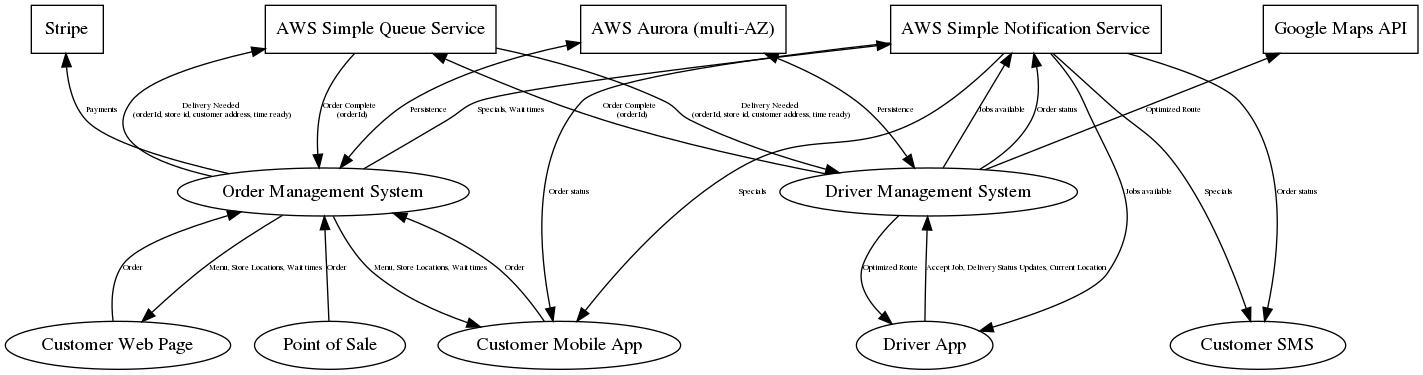
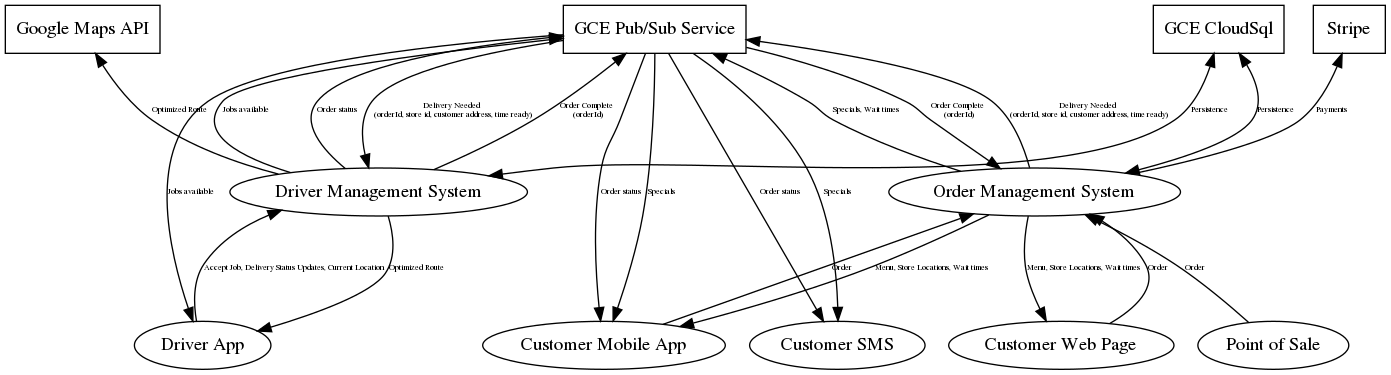
Updated graph

diff --git a/docs/Details/Order Management System.md b/docs/Details/Order Management System.md
@@ -3,21 +3,17 @@
 * Spring Security
 * JAX-RS
 * Docker
+* Stripe
 
 ## External services
 
-* AWS Simple Notification Service
-  * Driver job notifications
-  * Customer order updates
-* AWS Simple Queue Service
-  * Messaging to Customer Management System
-* AWS RDS with Aurora
-  * Data persistence
-* AWS Elastic Load Balancer
-* AWS Elastic Container Service
+* Google Container Engine (GKE)
+* Google Pub/Sub
+* Google Cloud SQL (Postgres)
 
-## Possible alternatives
-* AWS Incognito and API Gateway for user authentication and authorization
 
 ## Rationale
-Using an AWS heavy stack will reduce complexity, and enable easier scalability
+Using Google over AWS allows us to use managed kubernetes (google container engine) which is a far better offering than ECS. Running Kubernetes on AWS is quite intesnive, and for small deployments much costlier due to having to run your own managers.
+In addition, We can always deploy Kubernetes on another provider if we need to move away from Google Cloud Engine, wehreas that is not possible with ECS.
+Google Pub/Sub is equivalent to SQS for our purposes. Google Cloud SQL offers both Postgres and MySql, which allows us to switch to another vendor relatively easily. I've chosen Postgres because I think it has a more copmlete feature set, is less quirky. 
+In addition using Google allows us to use Cloud Spanner if we ever hit massive loads.

diff --git a/docs/Details/Web App.md b/docs/Details/Web App.md
@@ -3,13 +3,14 @@
   * Customer facing web site
 
 ## External Services
-* AWS S3
-  * Web site hosting
-* AWS Cloudfront
-  * CDN
-* AWS Route 53
-  * DNS management
+* Google Cloud Firebase
 
 ## Alternatives
-* Nginx and Docker
+* Nginx on GKE
+* Google Cloud Storage
 * Cloudflare 
+
+## Rationale
+The customer facing webapp will be written in React. The primary reason is React has high developer mind share and industry buy in. Thus finding React developers is not difficult, nor is there as high of a worry of React being abandoned. In addition, using React will allow developers to more easily transition to the mobile team (React Native) if neccesary. There is also the possibility of code reuse between the web and mobile applications.
+
+Using Firebase allows us to easily manage our static resources, and not worry about scalability. I would avoid using firebase specific functionality, limiting it to static file hosting, and certificate management. It will be relatively simple to transition to another if we just utilize it for static hosting.

diff --git a/src/devops/kubernetes/aws/README.md b/src/devops/kubernetes/aws/README.md
@@ -1,0 +1,21 @@
+[Please view the full Kops tutorial first](https://github.com/kubernetes/kops/blob/master/docs/aws.md)
+
+Dependencies:
+* Kops
+* Kubectl
+* awc-cli
+
+1. Prepare the AWS Kops Iam user.
+    * `. init-iam-kops.sh`
+1. Prepare Route 53.
+    * `. init-route-53.sh ${root-domain} ${sub-domain}`
+    * ie: `./init-route-53.sh pizzatent.co.nz kubernetes.pizzatent.co.nz`
+1. Prepare S3 state store.
+    * `. init-s3-state-store.sh ${bucket}`
+1. Create cluster 
+    * Initialize cluster
+        * `kops create cluster --zones ${availability-zones} ${sub-domain}`
+    * Update autoscaling setup
+        * `kops edit ig --name ${sub-domain} nodes`
+    * Deploy cluster
+        * `kops update cluster ${sub-domain} --yes`

diff --git a/docs/Details/Delivery Management System.md b/docs/Details/Delivery Management System.md
@@ -1,0 +1,14 @@
+## Stack 
+* Spring Boot
+* Spring Security
+* JAX-RS
+* Docker
+
+## External services
+* Google Maps API
+  * Optimized multi-address directions
+* Google Pub/Sub
+* Google Container Engine
+
+## Possible alternatives
+* Docker Swarm

diff --git a/docs/Details/Google Maps.md b/docs/Details/Google Maps.md
@@ -1,0 +1,3 @@
+https://developers.google.com/maps/documentation/directions/intro#Waypoints
+
+* Utilize Google Maps API using waypoint functionality with optimize set to true

diff --git a/docs/Details/Devops.md b/docs/Details/Devops.md
@@ -1,0 +1,7 @@
+## Stack 
+* Kubernetes
+   * Run jobs
+* Helm
+   * Compose deployment stack 
+* Gitlab -> Github and Buildkite
+   * Use autoscaling gitlab runners
